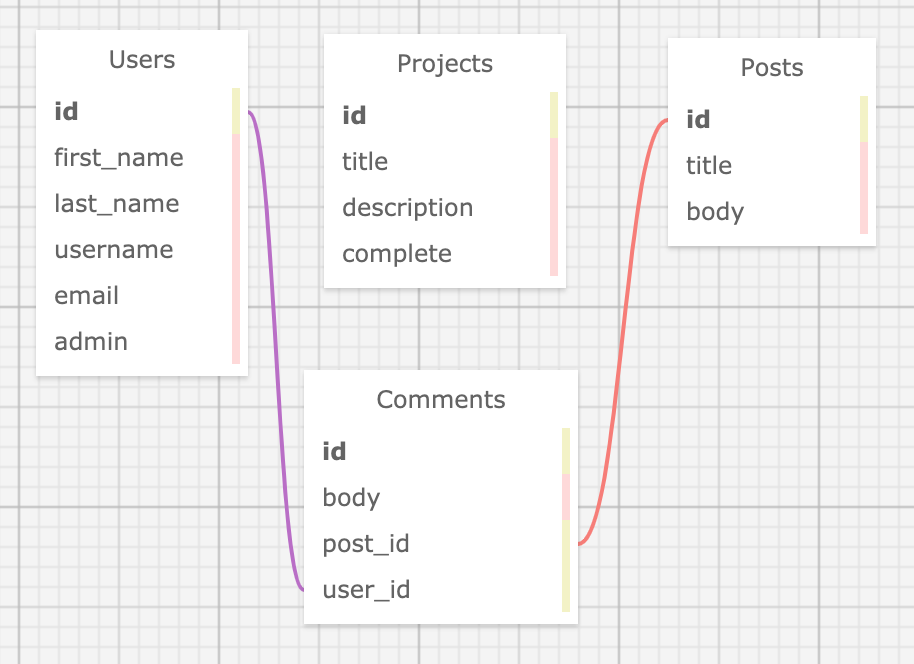
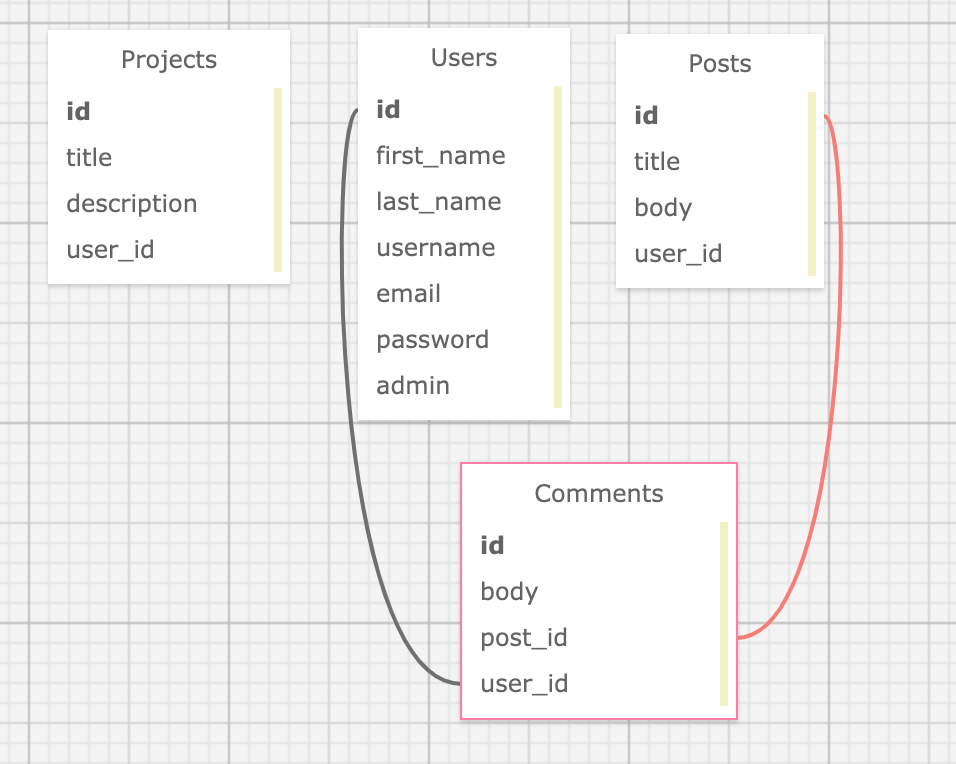
Add seed file and new database table images

diff --git a/coverage/index.html b/coverage/index.html
@@ -14,7 +14,7 @@
       <img src="./assets/0.12.3/loading.gif" alt="loading"/>
     </div>
     <div id="wrapper" class="hide">
-      <div class="timestamp">Generated <abbr class="timeago" title="2020-10-30T21:30:10-07:00">2020-10-30T21:30:10-07:00</abbr></div>
+      <div class="timestamp">Generated <abbr class="timeago" title="2020-10-30T22:07:53-07:00">2020-10-30T22:07:53-07:00</abbr></div>
       <ul class="group_tabs"></ul>
 
       <div id="content">

diff --git a/db/seeds.rb b/db/seeds.rb
@@ -2,12 +2,14 @@ class Seed
 
   def self.begin
     User.destroy_all
+    Project.destroy_all
+    Post.destroy_all
     seed = Seed.new
-    seed.generate_admins
-    # seed.generate_users
+    seed.generate_admins_and_projects
+    seed.generate_users_and_posts
   end
 
-  def generate_admins
+  def generate_admins_and_projects
     admin1 = User.create!(
         first_name: 'Vanessa',
         last_name: 'Stewart',
@@ -15,9 +17,7 @@ class Seed
         email: 'test1@email.com',
         password: 'student',
         admin: true
-      )
-      2.times do
-      end
+    )
     admin2 = User.create!(
       first_name: 'Ada',
       last_name: 'Lovelace',
@@ -35,10 +35,17 @@ class Seed
       admin: true
     )
     puts "3 admins successfully generated."
+    6.times do |t|
+      project = Project.create!(
+        title: Faker::Book.title,
+        description: Faker::Book.genre
+      )
+    end
+    puts "6 projects successfully generated."
   end
 
-  def generate_users
-    50.times do | index |
+  def generate_users_and_posts
+    10.times do |index|
       user = User.create!(
         first_name: Faker::Name.first_name,
         last_name: Faker::Name.last_name,
@@ -46,12 +53,21 @@ class Seed
         email: Faker::Internet.email,
         password: Faker::Internet.password
       )
+      5.times do |index|
+        post = Post.create!(
+          title: Faker::Quotes::Shakespeare.as_you_like_it_quote,
+          body: Faker::Lorem.paragraph(sentence_count: 5)
+        )
+        5.times do |index|
+          comment = post.comments.create!(
+            body: Faker::TvShows::MichaelScott.quote,
+            user_id: user.id
+          )
+        end
+      end
     end
-    puts "50 users successfully generated."
+    puts "10 users, 50 posts, 250 comments successfully generated."
   end
-
-
-
 end
 
 Seed.begin
